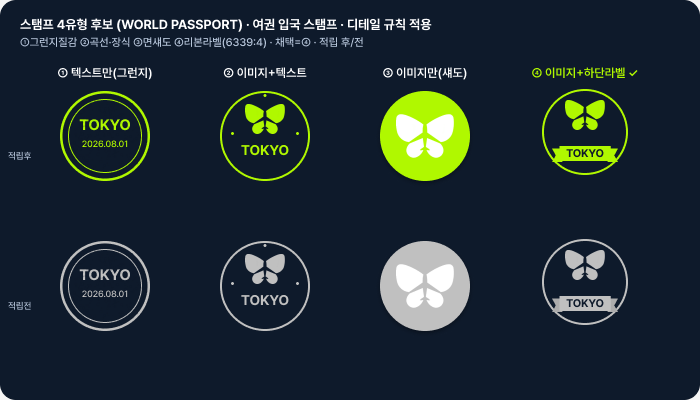
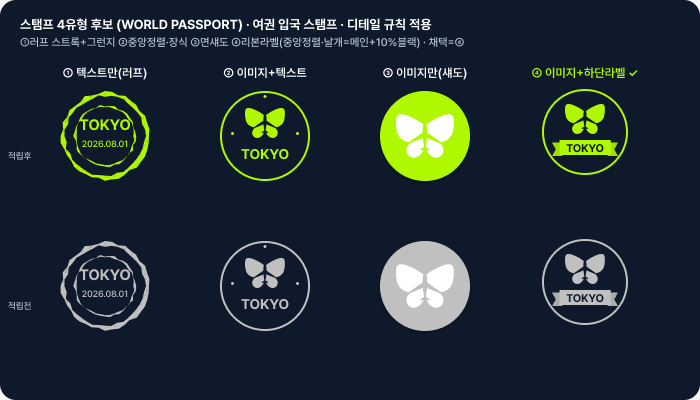
vault backup: 2026-07-01 11:49:57

diff --git a/큐알스탬프 솔루션/2. 작업 가이드/2-1. 페이지 구조/2-1-3. 스탬프.md b/큐알스탬프 솔루션/2. 작업 가이드/2-1. 페이지 구조/2-1-3. 스탬프.md
@@ -215,6 +215,7 @@ tof
 | **형태·톤 통일** | 원형·아치·육각·티켓·밴드 등 어떤 형태든, **한 이벤트 세트는 형태·톤을 하나로 통일**한다(칸마다 제각각 ❌). |
 | **캐릭터 = 얼굴(머리)만 크롭** | 캐릭터를 쓰는 **모든 유형**에서 **전신 ❌ → 얼굴(머리)만** 크롭. (100×100 작은 칸에서 얼굴이 가장 또렷·일관) |
 | **모티프 = 브랜드 자산 그대로** | 발자국·심볼 등 **공식 모양이 있으면 임의로 그리지 말고 캡처/추출**해 사용. (예: 울프런 = 기획서의 늑대 발자국) |
+| **⭐ 요소 그룹 = 프레임 정중앙 정렬** | 칸 안 요소(모티프·텍스트·리본 등)를 **하나의 그룹으로 묶어, 그 그룹의 bbox 중심을 원/프레임의 정중앙에 맞춘다.** 위·아래(또는 좌우)로 쏠리지 않게 **시각적 균형**을 잡는 게 핵심 — 개별 요소를 감으로 배치 ❌. (예: 이미지+하단텍스트는 [이미지+텍스트] 묶음이 원 중앙에) |
 | **면(fill) 스탬프 → drop shadow 필수** | **면(채움)으로 가득 찬 스탬프**(씰·발자국·단색 실루엣 등)는 **유형과 무관하게** drop shadow로 칸과 분리·입체감. |
 | └ 그림자 사양 | **`X 0 · Y 2 · Blur 1 · Spread 0` · `#000000` opacity 20%** (유형3 "이미지만" 기준으로 통일). |
 | └ 저화질 보강 | 저화질 모티프(작은 마커 추출 등)는 **흰색 면적(원/사각) + 굵은 스트록(≈8px)** 위에 얹고, **텍스트가 안 읽히면 텍스트에도 그림자**. |
@@ -223,10 +224,10 @@ tof
 
 | 유형 | 필수 디테일 |
 |---|---|
-| **① 텍스트만** | **그런지(빈티지) 질감 필수** — worn-ink 텍스처를 **옅게 오버레이**(가독성 유지) · 밋밋한 단색 프레임 ❌. **스트록은 brush 유형을 다르게**(균일 기본선 하나 ❌ · 칸/요소마다 거친 도장 느낌·굵기 변화). |
+| **① 텍스트만** | **그런지(빈티지) 질감 필수** — worn-ink 텍스처를 **옅게 오버레이**(가독성 유지) · 밋밋한 단색 프레임 ❌. **스트록(테두리 링)은 brush/거친 유형으로** — 균일 기본선 하나 ❌. **구현**: Figma 스트레치 브러시(Heist·Grindhouse 등)는 **에디터에서 수동 적용**(플러그인 API 미지원)하거나, **러프 벡터 링**(외곽선을 지글지글하게 그린 손도장 링)으로 대체한다. |
 | **② 이미지+텍스트** | 둘레 **곡선 텍스트 + 장식(점·별)** 사이 **여백 충분히**(붙지 않게) · 텍스트 **14~15px Bold**. ⚠ **곡률이 가파르면(반경 작아 가독성↓) 곡선 대신 직선 텍스트**. |
 | **③ 이미지만** | 모티프가 곧 스탬프 — **면 스탬프 drop shadow 사양의 기준 유형**(위 A 참고) · 저화질이면 흰 면적+스트록 보강. |
-| **④ 이미지+하단텍스트** | 하단 리본/라벨 = **`리본 라벨`(`6339:4`) 컴포넌트 복제·리컬러** — **형태·비율 그대로, 컬러만 메인**. variant: active `6339:2`(메인) / inactive `6339:3`(`#C0C0C0`). **라벨 텍스트만 교체**하고 리본 모양은 다시 그리지 않는다. |
+| **④ 이미지+하단텍스트** | 하단 리본/라벨 = **`리본 라벨`(`6339:4`) 컴포넌트 복제·리컬러** — **형태·비율 그대로, 컬러만 메인**. variant: active `6339:2`(메인) / inactive `6339:3`(`#C0C0C0`). **라벨 텍스트만 교체**하고 리본 모양은 다시 그리지 않는다. ⭐ **리본 양 끝 날개(`Vector`)는 = 메인 컬러 + `#000000` 10%**(중앙 밴드보다 살짝 어둡게 → 접힘/입체감) · **중앙 밴드(`Rectangle`)는 메인 컬러**. [이미지 + 리본] 묶음을 **링 정중앙에 정렬**(A 공통). |
 
 ---
 
@@ -287,6 +288,7 @@ tof
 - [ ] 캐릭터는 **얼굴만** 크롭(전신 ❌, 전 유형 공통) · 공식 모티프(발자국 등)는 **브랜드 자산 추출**
 - [ ] **텍스트만(유형 1) → 그런지 질감 필수** · 스트록은 **brush 유형 다르게**(균일 기본선 ❌)
 - [ ] **면(fill)으로 이루어진 스탬프 → drop shadow 필수** — 사양 **`X0 Y2 Blur1 Spread0` · `#000000` 20%**(유형 3 기준) · (저화질 보강 시 흰 면적+8px 스트록·텍스트 그림자)
-- [ ] **유형4 리본 = `리본 라벨`(`6339:4`) 복제 → 컬러만 메인 컬러로 수정**(형태 임의 변경 ❌)
+- [ ] **칸 안 요소 = 그룹으로 묶어 프레임 정중앙 정렬**(위·아래 쏠림 ❌ · 시각적 균형)
+- [ ] **유형4 리본 = `리본 라벨`(`6339:4`) 복제 → 컬러만 메인 컬러로 수정**(형태 임의 변경 ❌) · **날개 = 메인 + `#000000` 10%** / 중앙 밴드 = 메인
 - [ ] 간격 준수: 52 / 29 / 29 / 40 (오토레이아웃 gap 29)
 - [ ] 남은 개수/완료가 헤더에서 즉시 읽히는가

diff --git a/큐알스탬프 솔루션/5. 참조 페이지/5. WORLD PASSPORT (JINAIR).md b/큐알스탬프 솔루션/5. 참조 페이지/5. WORLD PASSPORT (JINAIR).md
@@ -88,7 +88,7 @@ tags:
 
 ## 🏷 스탬프 4유형 후보 (페이지 보관 · 삭제금지)
 
-> 워크플로우 규칙대로 4유형 후보 보드를 같은 페이지에 보관 (`6457:172`). 채택 = **④** · **디테일 규칙(그런지·장식·섀도·리본라벨) 적용본**.
+> 워크플로우 규칙대로 4유형 후보 보드를 같은 페이지에 보관 (`6461:178`). 채택 = **④** · **디테일 규칙 적용본**(①러프 스트록+그런지 · ②③④ 중앙정렬 · ③면섀도 · ④리본라벨 날개=메인+10%블랙).
 
 ![[큐알스탬프 솔루션/attachments/worldpassport-stamp-types.png]]
 
